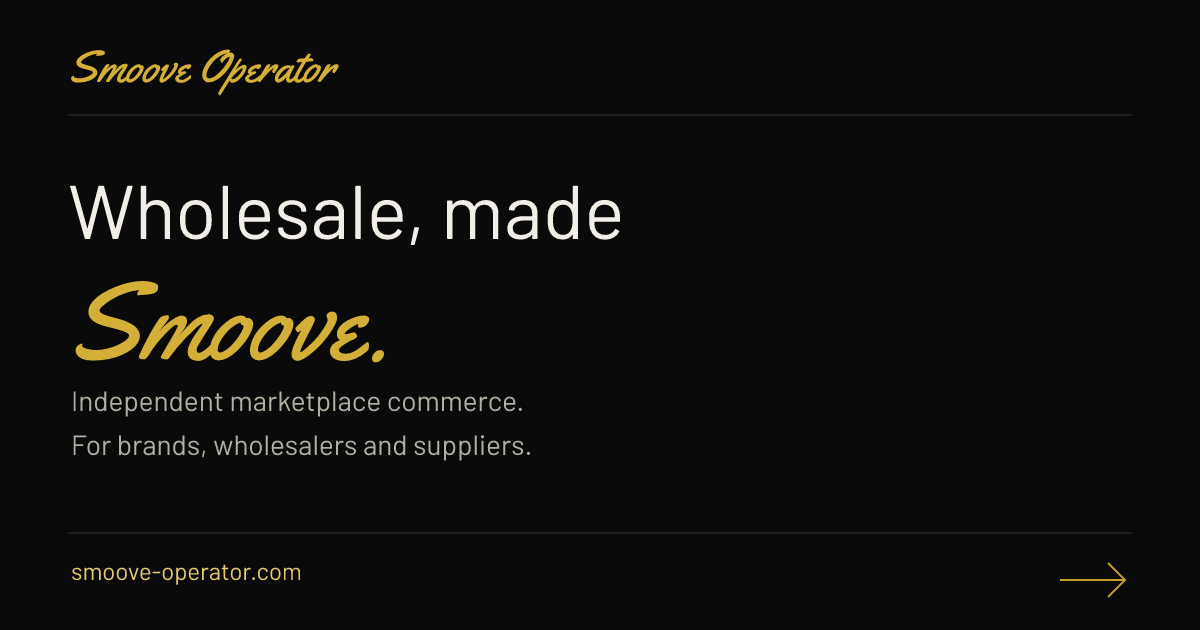
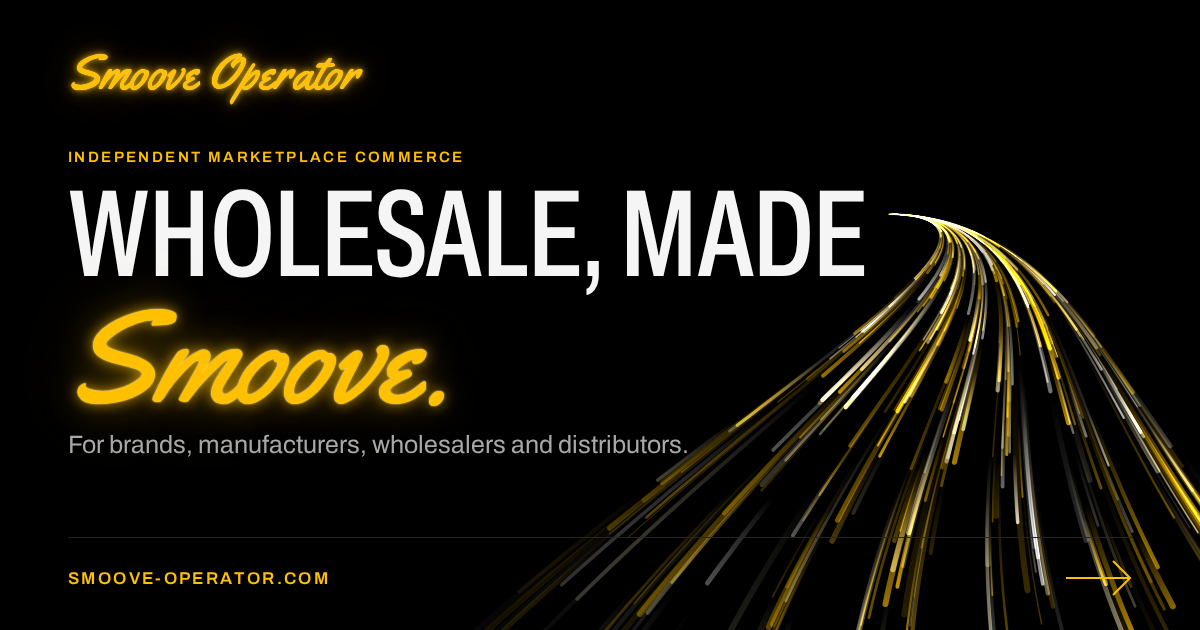
New link preview image and a no-download business profile viewer (#10)
Night Route social card (black, Lamborghini gold, neon wordmark, capital slogan, light trails) rendered from scripts/social-card.html, with a content hash on og:image so previews refresh. The business profile button now reads View business profile and opens an on-page viewer or a new tab instead of downloading.

Claude-Session: https://claude.ai/code/session_01SHah7qq2ZCxJo8deToap3H

diff --git a/public/assets/site.css b/public/assets/site.css
@@ -72,6 +72,11 @@ html:not(.js) .nr-fill{transform:none}
 .page-intro{padding:clamp(52px,6.7vw,96px) 0 clamp(40px,5vw,72px);border-bottom:1px solid var(--line);background:radial-gradient(ellipse at 88% 10%,rgba(255,192,0,.07),transparent 60%)}.page-intro h1{max-width:20ch}.page-intro .lede{max-width:65ch;margin-bottom:0}.page-intro .btn-row{margin-top:30px}.capability-details article{display:grid;grid-template-columns:.9fr 1.1fr;gap:8%;padding:54px 0;border-top:1px solid var(--line);scroll-margin-top:110px}.capability-details article:first-child{padding-top:0;border-top:0}.capability-details article:last-child{padding-bottom:0}.capability-details h2{font-size:clamp(36px,3.8vw,56px)}.capability-details p:not(.lead-paragraph),.capability-details li{color:var(--muted)}.capability-details li{padding-block:6px}.operations-map{max-width:860px}.operations-map .stage-name{font-size:29px}.operations-map .map-stages details p{max-width:70ch}.operations-map .map-stages summary{padding-block:20px}.faq{border-top:1px solid var(--line)}.faq-list details{border-bottom:1px solid var(--line)}.faq-list details:first-child{border-top:1px solid var(--control)}.faq-list summary{padding:23px 28px 23px 0;cursor:pointer;font-size:21px;line-height:1.4}.faq-list p{color:var(--muted);padding-right:24px}.profile-facts{margin:0}.profile-facts>div{display:grid;grid-template-columns:1fr 1.6fr;gap:30px;padding:25px 0;border-top:1px solid var(--line)}.profile-facts dt{color:var(--gold-light)}.profile-facts dd{margin:0}.legal h2{font-family:var(--body);font-stretch:100%;text-transform:none;font-size:28px;font-weight:500;letter-spacing:0;line-height:1.25;margin-top:45px}.legal h2:first-child{margin-top:0}.legal p{color:var(--muted)}
 /* An introduction, without a mandatory qualification sequence. */
 .contact-section{background:var(--surface)}.contact-grid{display:grid;grid-template-columns:.85fr 1.15fr;gap:9%}.contact-grid aside h2{font-size:clamp(40px,4.4vw,64px)}.contact-grid aside p{color:var(--muted);max-width:42ch}.contact-grid aside h3{margin-top:36px}.inquiry-form{min-width:0}.inquiry-form h2{font-size:clamp(34px,3.2vw,44px);line-height:1;margin-bottom:12px}.form-intro{font-size:16px;color:var(--muted)}.field{margin-bottom:24px;min-width:0}.field label{display:block;font-size:17px;font-weight:500;margin-bottom:9px}.field label span{font-weight:400;color:var(--muted);font-size:16px}.field input,.field select,.field textarea{width:100%;border:1px solid var(--control);background:var(--black);border-radius:0;padding:12px 14px;min-height:49px;font-size:18px;line-height:1.45}.field textarea{resize:vertical;min-height:140px}.field input:focus,.field textarea:focus,.field select:focus{outline:2px solid var(--gold-light);outline-offset:3px}.field [aria-invalid=true]{border-color:var(--error)}.row2{display:grid;grid-template-columns:1fr 1fr;gap:20px}.help{font-size:16px;color:var(--muted);line-height:1.5;margin-top:10px}.optional-details{margin:0 0 25px;border-block:1px solid var(--line)}.optional-details summary{padding:17px 0;cursor:pointer}.optional-details summary span{font-size:16px;color:var(--muted)}.optional-details[open] summary{margin-bottom:12px}.privacy-help{margin-bottom:25px}.err-msg{color:var(--error);font-size:16px;margin:9px 0 0}#inquiry-status{margin-top:20px;max-width:60ch}#inquiry-status[data-state=error]{color:var(--error)}#inquiry-status[data-state=success]{color:var(--gold-light)}
+.btn-note{flex-basis:100%;font-size:14px;color:var(--muted)}
+.pdf-dialog{width:min(1100px,94vw);height:min(92vh,1100px);max-width:none;max-height:none;padding:0;border:1px solid var(--gold);background:#000;color:var(--text)}.pdf-dialog::backdrop{background:#000000d9}.pdf-dialog[open]{display:flex;flex-direction:column}
+.pdf-bar{display:flex;justify-content:space-between;align-items:center;gap:16px;padding:10px 12px 10px 20px;border-bottom:1px solid var(--line)}.pdf-bar h2{font-size:28px;margin:0}.pdf-actions{display:flex;align-items:center;gap:8px}.pdf-actions form{margin:0}
+.pdf-actions a,.pdf-close{display:inline-flex;align-items:center;min-height:44px;padding:0 16px;border:1px solid var(--line);background:none;color:var(--text);font-size:13px;font-weight:600;letter-spacing:.14em;text-transform:uppercase;text-decoration:none}.pdf-actions a:hover,.pdf-close:hover{border-color:var(--gold);color:var(--gold)}
+.pdf-dialog iframe{flex:1;width:100%;border:0;background:#fff}
 .eyebrow{font-size:12px;font-weight:600;letter-spacing:.16em;text-transform:uppercase;color:var(--gold);margin-bottom:18px}
 .site-footer{padding:60px 0 22px}.footer-top{display:flex;justify-content:space-between;gap:50px;padding-bottom:40px}.footer-top p{color:var(--muted);margin:18px 0 0;font-size:17px}.footer-top nav{display:grid;grid-template-columns:1fr 1fr;gap:6px 44px;align-content:start}.footer-top nav a{color:var(--text);text-decoration:none;min-height:44px;display:flex;align-items:center;font-size:17px}.footer-top nav a:hover{color:var(--gold-light)}.footer-bottom{border-top:1px solid var(--line);display:flex;flex-wrap:wrap;gap:14px 36px;justify-content:space-between;align-items:center;padding-top:15px;color:var(--muted);font-size:14px}.footer-bottom p{margin:0}.footer-bottom div{display:flex;gap:24px}.footer-bottom a{display:inline-flex;align-items:center;min-height:44px;color:var(--muted)}
 @media(min-width:1600px){}

diff --git a/scripts/social-card.html b/scripts/social-card.html
@@ -1,0 +1,24 @@
+<!-- Source for public/assets/social-card.png (1200x630 link preview). Render with: node scripts/render-social-card.mjs -->
+<!doctype html><html><head><meta charset="utf-8"><style>
+@font-face{font-family:Archivo;src:url(../public/fonts/Archivo-var.woff2) format('woff2');font-weight:100 900;font-stretch:62% 125%}
+@font-face{font-family:Yellowtail;src:url(../public/fonts/Yellowtail-normal.woff2) format('woff2')}
+html,body{margin:0;width:1200px;height:630px;background:#000;overflow:hidden}
+.card{position:relative;width:1200px;height:630px;font-family:Archivo;color:#F5F5F5;background:radial-gradient(ellipse at 78% 40%,rgba(255,192,0,.16),transparent 55%),#000}
+canvas{position:absolute;inset:0}
+.shade{position:absolute;inset:0;background:linear-gradient(90deg,#000 0%,rgba(0,0,0,.85) 42%,rgba(0,0,0,0) 70%)}
+.in{position:absolute;inset:0;padding:40px 68px}
+.logo{font-family:Yellowtail;font-size:48px;color:#FFC000;text-shadow:0 0 1px #fff8e0,0 0 6px rgba(255,192,0,.85),0 0 16px rgba(255,192,0,.55),0 0 38px rgba(255,192,0,.35)}
+.eye{margin-top:44px;font-size:15px;font-weight:600;letter-spacing:.16em;color:#FFC000}
+h1{margin:14px 0 0;font-stretch:62%;font-weight:500;font-size:124px;line-height:.9;letter-spacing:-.005em}
+.sm{display:block;font-family:Yellowtail;font-stretch:100%;font-weight:400;font-size:132px;line-height:1.02;color:#FFC000;text-shadow:0 0 2px #fff6d0,0 0 14px rgba(255,192,0,.7),0 0 40px rgba(255,192,0,.4),0 0 90px rgba(255,192,0,.2)}
+.sub{margin-top:6px;font-size:25px;color:#A8A8A8}
+.foot{position:absolute;left:68px;right:68px;bottom:34px;border-top:1px solid #262626;padding-top:22px;display:flex;justify-content:space-between;align-items:center;font-size:17px;font-weight:600;letter-spacing:.14em;color:#FFC000}
+</style></head><body><div class="card"><canvas id="c" width="1200" height="630"></canvas><div class="shade"></div><div class="in">
+<div class="logo">Smoove Operator</div><div class="eye">INDEPENDENT MARKETPLACE COMMERCE</div><h1>WHOLESALE, MADE<span class="sm">Smoove.</span></h1><div class="sub">For brands, manufacturers, wholesalers and distributors.</div></div>
+<div class="foot"><span>SMOOVE-OPERATOR.COM</span><svg width="66" height="36" viewBox="0 0 66 36"><path d="M0 18h64m-17-17 17 17-17 17" stroke="#FFC000" stroke-width="2" fill="none"/></svg></div></div>
+<script>const c=document.getElementById('c'),x=c.getContext('2d'),W=1200,H=630;let s=7;const r=()=>{s=(s*16807)%2147483647;return s/2147483647;};
+const pt=(l,z)=>{const e=z*z,cu=Math.sin(z*Math.PI*.9)*W*.14*(1-z);return[W*.74+cu+l*e*W*.13,H*.34+e*H*.8];};
+for(let f=0;f<120;f++){x.globalCompositeOperation='source-over';x.fillStyle='rgba(0,0,0,.2)';x.fillRect(0,0,W,H);x.globalCompositeOperation='lighter';x.lineCap='round';
+for(let i=0;i<120;i++){const l=Math.floor(r()*7)-3+(r()-.5)*.6,z1=r(),z0=Math.max(0,z1-(.08+r()*.22)),gold=r()<.78,col=gold?(r()<.3?'255,241,194':'255,192,0'):'255,255,255';
+if(f<116)continue;x.beginPath();for(let k=0;k<=14;k++){const[a,b]=pt(l,z0+(z1-z0)*k/14);k?x.lineTo(a,b):x.moveTo(a,b);}const[a0,b0]=pt(l,z0),[a1,b1]=pt(l,z1),g=x.createLinearGradient(a0,b0,a1,b1);g.addColorStop(0,'rgba('+col+',0)');g.addColorStop(1,'rgba('+col+','+(.25+r()*.6)+')');x.strokeStyle=g;x.lineWidth=(.6+r()*2.2)*(.3+z1*2.2);x.stroke();}}
+</script></body></html>

diff --git a/public/assets/site.js b/public/assets/site.js
@@ -50,6 +50,9 @@ const OUTLINE={who:{brand:'Brand owner',manufacturer:'Manufacturer',wholesaler:'
 const outlineText=(w,c,k)=>{const who=OUTLINE.who[w],art=/^[AEIOU]/.test(who)?'an':'a';return `I represent ${art} ${who.toLowerCase()} and would like to discuss an account. Channel: ${OUTLINE.channel[c]}. Cadence: ${k==='opening'?'opening order, then review sell-through':'scheduled replenishment once demand is proven'}.`;};
 const outline=document.getElementById('partner-outline');
 if(outline){const upd=()=>{const d=new FormData(outline),w=d.get('who'),c=d.get('channel'),k=d.get('cadence');outline.querySelector('[data-out=who]').textContent=OUTLINE.who[w];outline.querySelector('[data-out=channel]').textContent=OUTLINE.channel[c];outline.querySelector('[data-out=cadence]').textContent=OUTLINE.cadence[k];outline.querySelector('[data-out=message]').textContent=outlineText(w,c,k);};outline.addEventListener('change',upd);upd();}
+// Business profile: view the PDF in an on-page viewer on larger screens whose browser renders PDFs inline; everything else opens a new tab, never a forced download.
+const pdfLink=document.querySelector('[data-pdf-dialog]'),pdfDialog=document.getElementById('pdf-dialog');
+if(pdfLink&&pdfDialog&&typeof pdfDialog.showModal==='function'){pdfLink.addEventListener('click',e=>{if(e.metaKey||e.ctrlKey||e.shiftKey||e.altKey||navigator.pdfViewerEnabled!==true||!matchMedia('(min-width:900px) and (pointer:fine)').matches)return;e.preventDefault();const f=pdfDialog.querySelector('iframe');if(!f.src)f.src=f.dataset.src;pdfDialog.showModal();});pdfDialog.addEventListener('click',e=>{if(e.target===pdfDialog)pdfDialog.close();});}
 let source='direct';
 try{const q=new URLSearchParams(location.search);const code=q.get('ref')||q.get('src')||q.get('utm_campaign');if(code){source=code.replace(/[^\w.-]/g,'').slice(0,64)||'direct';sessionStorage.setItem('so-source',source);}else source=sessionStorage.getItem('so-source')||'direct';}catch{}
 const form=document.getElementById('supplier-inquiry');

diff --git a/docs/HANDOFF.md b/docs/HANDOFF.md
@@ -14,8 +14,8 @@ Supplier credibility leads. Distinguish commercial decisions from physical work 
 
 ## Maintenance
 
-src/pages.mjs owns pages. src/commerce.mjs owns the pathway and inquiry form. The Night Route homepage (hero, spec strip, route and partnership outline) lives in `home()` in src/pages.mjs; its behavior (light trails, route observer, outline and suppliers prefill) is in site.js. src/components.mjs owns navigation/footer. public/assets/site.css and site.js own styling and enhancement. scripts/assets.mjs regenerates the social image and profile PDF. Read DESIGN.md, docs/BRAND.md, docs/TESTING.md and docs/DEPLOYMENT.md.
+src/pages.mjs owns pages. src/commerce.mjs owns the pathway and inquiry form. The Night Route homepage (hero, spec strip, route and partnership outline) lives in `home()` in src/pages.mjs; its behavior (light trails, route observer, outline and suppliers prefill) is in site.js. src/components.mjs owns navigation/footer. public/assets/site.css and site.js own styling and enhancement. scripts/assets.mjs regenerates the profile PDF. The 1200x630 link preview image is authored in scripts/social-card.html and rendered with scripts/render-social-card.mjs (needs Playwright locally); build.mjs adds a content hash to og:image so link previews refresh. Read DESIGN.md, docs/BRAND.md, docs/TESTING.md and docs/DEPLOYMENT.md.
 
-Run npm run assets after profile/social content changes, then npm run build and npm test. Always render the PDF to inspect it; text extraction alone missed invisible WOFF2 fonts. Inquiries are available in Netlify Forms. Mailbox notifications have not been verified.
+Run npm run assets after profile content changes and node scripts/render-social-card.mjs after social card changes, then npm run build and npm test. Always render the PDF to inspect it; text extraction alone missed invisible WOFF2 fonts. Inquiries are available in Netlify Forms. Mailbox notifications have not been verified.
 
 The current user brief authorizes verified production publishing and supersedes historical preview-only instructions. No DNS, registrar or Google Workspace records were changed.
